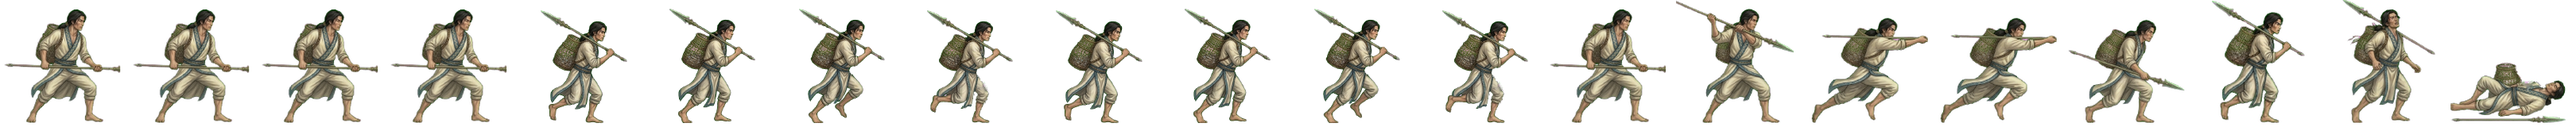
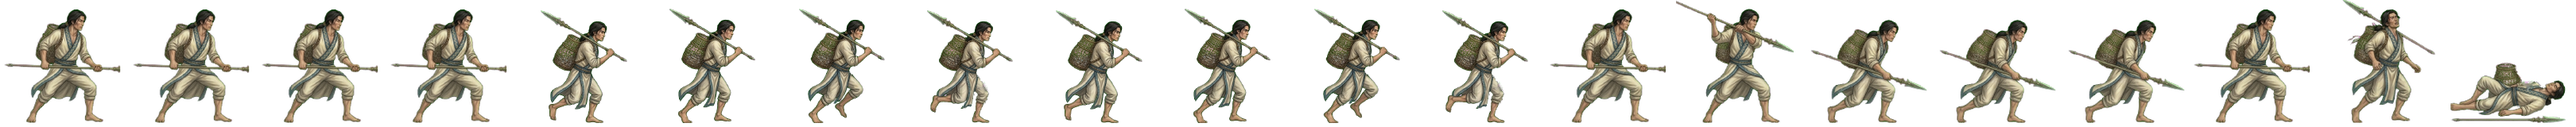
전투 띠 새로: 가락 유수간 동작 칸 다시 고름 · 창끝이 뒤로 가던 3·5번 칸 뺌 (형 11-08)
Claude-Session: https://claude.ai/code/session_01TRiuNAG8xSjdmjCFpc8Rd5

Changed region(s): [[0.6858, 0.1562, 0.8105, 0.9688], [0.8417, 0.0312, 0.904, 0.9688]]

diff --git a/src/ui/realm/battle-strikes.ts b/src/ui/realm/battle-strikes.ts
@@ -143,7 +143,7 @@ const CONTACT: Readonly<Record<string, [number, number, number]>> = {
   'gen-haebi': [14, 0.87, 0.53], 'gen-heo': [14, 0.94, 0.46], 'gen-hyeokgeose': [14, 0.83, 0.94],
   'gen-hyeopbo': [14, .93, .21], 'gen-malgalgi': [14, 0.88, 0.28], 'gen-mari': [14, .98, .47],
   'gen-oi': [14, .98, .48], 'gen-onjo': [14, 0.83, 0.93], 'gen-soebi': [14, 0.80, 0.95],
-  'gen-soseono': [14, 0.92, 0.31], 'gen-maryeo': [14, 0.91, 0.79], 'gen-horselord': [14, 0.89, 0.25], 'gen-olddaeso': [14, 0.93, 0.91], 'gen-maro': [14, 0.97, 0.49], 'gen-gwaeyu': [14, 0.98, 0.71], 'gen-daemusin': [14, 0.91, 0.38], 'gen-tahae': [14, 0.91, 0.74], 'gen-ocheongan': [14, 0.82, 0.49], 'gen-yusugan': [14, 0.96, 0.31], 'gen-odogan': [14, 0.93, 0.28], 'gen-pidogan': [14, 0.94, 0.75], 'gen-yeodogan': [14, 0.93, 0.57], 'gen-adogan': [14, 0.95, 0.41], 'gen-musoe': [14, 0.94, 0.39], 'gen-suro': [14, 0.82, 0.53], 'gen-waechief': [14, 0.95, 0.68], 'gen-hojin': [14, 0.97, 0.64], 'gen-jita': [14, 0.94, 0.34], 'gen-guryema': [14, 0.89, 0.28], 'gen-jibaekho': [14, 0.97, 0.33], 'gen-sobeol': [14, 0.95, 0.33], 'gen-alpyeong': [14, 0.95, 0.54], 'gen-hogong': [14, 0.98, 0.27], 'gen-geumbawi': [14, 0.91, 0.92], 'gen-keundol': [14, 0.90, 0.68], 'gen-jinha': [14, 0.76, 0.93], 'gen-duman': [14, 0.97, 0.39], 'gen-gomok': [14, 0.94, 0.57], 'gen-hneoul': [14, 0.92, 0.27], 'gen-tneoul': [14, 0.84, 0.57], 'gen-sdallae': [14, 0.89, 0.29], 'gen-yucheongan': [14, 0.97, 0.64], 'gen-sincheongan': [14, 0.91, 0.71], 'gen-singwigan': [14, 0.91, 0.27], 'gen-mdallae': [14, 0.98, 0.30], 'gen-mulbeom': [14, 0.97, 0.36], 'gen-beomi': [14, 0.88, 0.43], 'gen-danbi': [14, 0.90, 0.30], 'gen-mulsae': [14, 0.87, 0.36], 'gen-darae': [14, 0.89, 0.29], 'gen-mir': [14, 0.98, 0.35], 'gen-wan': [14, 0.94, 0.30], 'gen-gom': [14, 0.94, 0.74], 'gen-sagong': [14, 0.79, 0.96], 'gen-halla': [14, 0.86, 0.46], 'gen-areum': [14, 0.86, 0.65], 'gen-dokmudeom': [14, 0.92, 0.29], 'gen-beom': [14, 0.98, 0.28], 'gen-baram': [14, 0.96, 0.24], 'gen-goeun': [14, 0.95, 0.66], 'gen-byeol': [14, 0.76, 0.96], 'gen-sinneoul': [14, 0.94, 0.33], 'gen-haesol': [14, 0.94, 0.34], 'gen-odi': [14, 0.91, 0.39], 'gen-irang': [14, 0.86, 0.30], 'gen-dalli': [14, 0.89, 0.32], 'gen-bakdal': [14, 0.94, 0.27], 'gen-noeul': [14, 0.88, 0.27], 'gen-maehwa': [14, 0.90, 0.31], 'gen-gaon': [14, 0.98, 0.41], 'gen-eomni': [14, 0.96, 0.42], 'gen-nuri': [14, 0.98, 0.34], 'gen-bira': [14, 0.88, 0.33], 'gen-gureum': [14, 0.98, 0.42],
+  'gen-soseono': [14, 0.92, 0.31], 'gen-maryeo': [14, 0.91, 0.79], 'gen-horselord': [14, 0.89, 0.25], 'gen-olddaeso': [14, 0.93, 0.91], 'gen-maro': [14, 0.97, 0.49], 'gen-gwaeyu': [14, 0.98, 0.71], 'gen-daemusin': [14, 0.91, 0.38], 'gen-tahae': [14, 0.91, 0.74], 'gen-ocheongan': [14, 0.82, 0.49], 'gen-yusugan': [14, 0.95, 0.70], 'gen-odogan': [14, 0.93, 0.28], 'gen-pidogan': [14, 0.94, 0.75], 'gen-yeodogan': [14, 0.93, 0.57], 'gen-adogan': [14, 0.95, 0.41], 'gen-musoe': [14, 0.94, 0.39], 'gen-suro': [14, 0.82, 0.53], 'gen-waechief': [14, 0.95, 0.68], 'gen-hojin': [14, 0.97, 0.64], 'gen-jita': [14, 0.94, 0.34], 'gen-guryema': [14, 0.89, 0.28], 'gen-jibaekho': [14, 0.97, 0.33], 'gen-sobeol': [14, 0.95, 0.33], 'gen-alpyeong': [14, 0.95, 0.54], 'gen-hogong': [14, 0.98, 0.27], 'gen-geumbawi': [14, 0.91, 0.92], 'gen-keundol': [14, 0.90, 0.68], 'gen-jinha': [14, 0.76, 0.93], 'gen-duman': [14, 0.97, 0.39], 'gen-gomok': [14, 0.94, 0.57], 'gen-hneoul': [14, 0.92, 0.27], 'gen-tneoul': [14, 0.84, 0.57], 'gen-sdallae': [14, 0.89, 0.29], 'gen-yucheongan': [14, 0.97, 0.64], 'gen-sincheongan': [14, 0.91, 0.71], 'gen-singwigan': [14, 0.91, 0.27], 'gen-mdallae': [14, 0.98, 0.30], 'gen-mulbeom': [14, 0.97, 0.36], 'gen-beomi': [14, 0.88, 0.43], 'gen-danbi': [14, 0.90, 0.30], 'gen-mulsae': [14, 0.87, 0.36], 'gen-darae': [14, 0.89, 0.29], 'gen-mir': [14, 0.98, 0.35], 'gen-wan': [14, 0.94, 0.30], 'gen-gom': [14, 0.94, 0.74], 'gen-sagong': [14, 0.79, 0.96], 'gen-halla': [14, 0.86, 0.46], 'gen-areum': [14, 0.86, 0.65], 'gen-dokmudeom': [14, 0.92, 0.29], 'gen-beom': [14, 0.98, 0.28], 'gen-baram': [14, 0.96, 0.24], 'gen-goeun': [14, 0.95, 0.66], 'gen-byeol': [14, 0.76, 0.96], 'gen-sinneoul': [14, 0.94, 0.33], 'gen-haesol': [14, 0.94, 0.34], 'gen-odi': [14, 0.91, 0.39], 'gen-irang': [14, 0.86, 0.30], 'gen-dalli': [14, 0.89, 0.32], 'gen-bakdal': [14, 0.94, 0.27], 'gen-noeul': [14, 0.88, 0.27], 'gen-maehwa': [14, 0.90, 0.31], 'gen-gaon': [14, 0.98, 0.41], 'gen-eomni': [14, 0.96, 0.42], 'gen-nuri': [14, 0.98, 0.34], 'gen-bira': [14, 0.88, 0.33], 'gen-gureum': [14, 0.98, 0.42],
   'gen-biryu': [14, 0.90, 0.35], 'gen-geumha': [14, 0.94, 0.61], 'gen-geota': [14, 0.86, 0.47], 'gen-soebo': [14, 0.87, 0.57],
   'gen-gaennae': [14, 249 / 264, 47 / 160],
   'gen-budeul': [14, 266 / 280, 51 / 160],

diff --git a/src/realm/data/art.ts b/src/realm/data/art.ts
@@ -563,7 +563,7 @@ export const GEN_ANIM: Readonly<Partial<Record<string, { ar: number; body: numbe
   yeodogan: { ar: 172 / 160, body: 0.900 }, // 11-08 초상대로 다시 (형: 「투구 쓰고 원본과 다르다」 · 제미나이 걷기 4×2 + 동작 4×2 → 20컷 · assets_src/realm/gemini/generals2) · 11-08 처음 · 가락 여도간 동작 다시 · 단검 대신 낫 (형 11-08)
   pidogan: { ar: 148 / 160, body: 0.900 }, // 11-08 초상대로 다시 (형: 「투구 쓰고 원본과 다르다」 · 제미나이 걷기 4×2 + 동작 4×2 → 20컷 · assets_src/realm/gemini/generals2) · 11-08 처음 · 가락 피도간 · 털 조끼·발톱 목걸이·손도끼
   odogan: { ar: 153 / 160, body: 0.900 }, // 11-08 초상대로 다시 (형: 「투구 쓰고 원본과 다르다」 · 제미나이 걷기 4×2 + 동작 4×2 → 20컷 · assets_src/realm/gemini/generals2) · 11-08 처음 · 가락 오도간 · 지그재그 깃 옷·작은 저울·짧은 칼
-  yusugan: { ar: 162 / 160, body: 0.894 }, // 11-08 초상대로 다시 (형: 「투구 쓰고 원본과 다르다」 · 제미나이 걷기 4×2 + 동작 4×2 → 20컷 · assets_src/realm/gemini/generals2) · 11-08 처음 · 가락 유수간 · 고기 바구니 멘 어부·작살창
+  yusugan: { ar: 162 / 160, body: 0.894 }, // 11-08 초상대로 다시 (형: 「투구 쓰고 원본과 다르다」 · 제미나이 걷기 4×2 + 동작 4×2 → 20컷 · assets_src/realm/gemini/generals2) · 11-08 처음 · 가락 유수간 동작 칸 다시 고름 · 창끝이 뒤로 가던 3·5번 칸 뺌
   ocheongan: { ar: 162 / 160, body: 0.900 }, // 11-08 초상대로 다시 (형: 「투구 쓰고 원본과 다르다」 · 제미나이 걷기 4×2 + 동작 4×2 → 20컷 · assets_src/realm/gemini/generals2) · 11-08 처음 · 가락 오천간 · 흰 머리띠 뱃사공·밧줄·노
   tahae: { ar: 151 / 160, body: 0.900 }, // 11-08 초상대로 다시 (형: 「투구 쓰고 원본과 다르다」 · 제미나이 걷기 4×2 + 동작 4×2 → 20컷 · assets_src/realm/gemini/generals2) · 11-08 처음 · 탈해 · 깃털 꽂은 바다 떠돌이·푸른 민소매·곧은 칼
   daemusin: { ar: 149 / 160, body: 0.894, bow: true }, // 11-08 초상대로 다시 (형: 「투구 쓰고 원본과 다르다」 · 제미나이 걷기 4×2 + 동작 4×2 → 20컷 · assets_src/realm/gemini/generals2) · 11-08 처음 · 고구려 대무신왕 · 새 날개 관·금빛 미늘·맥궁
